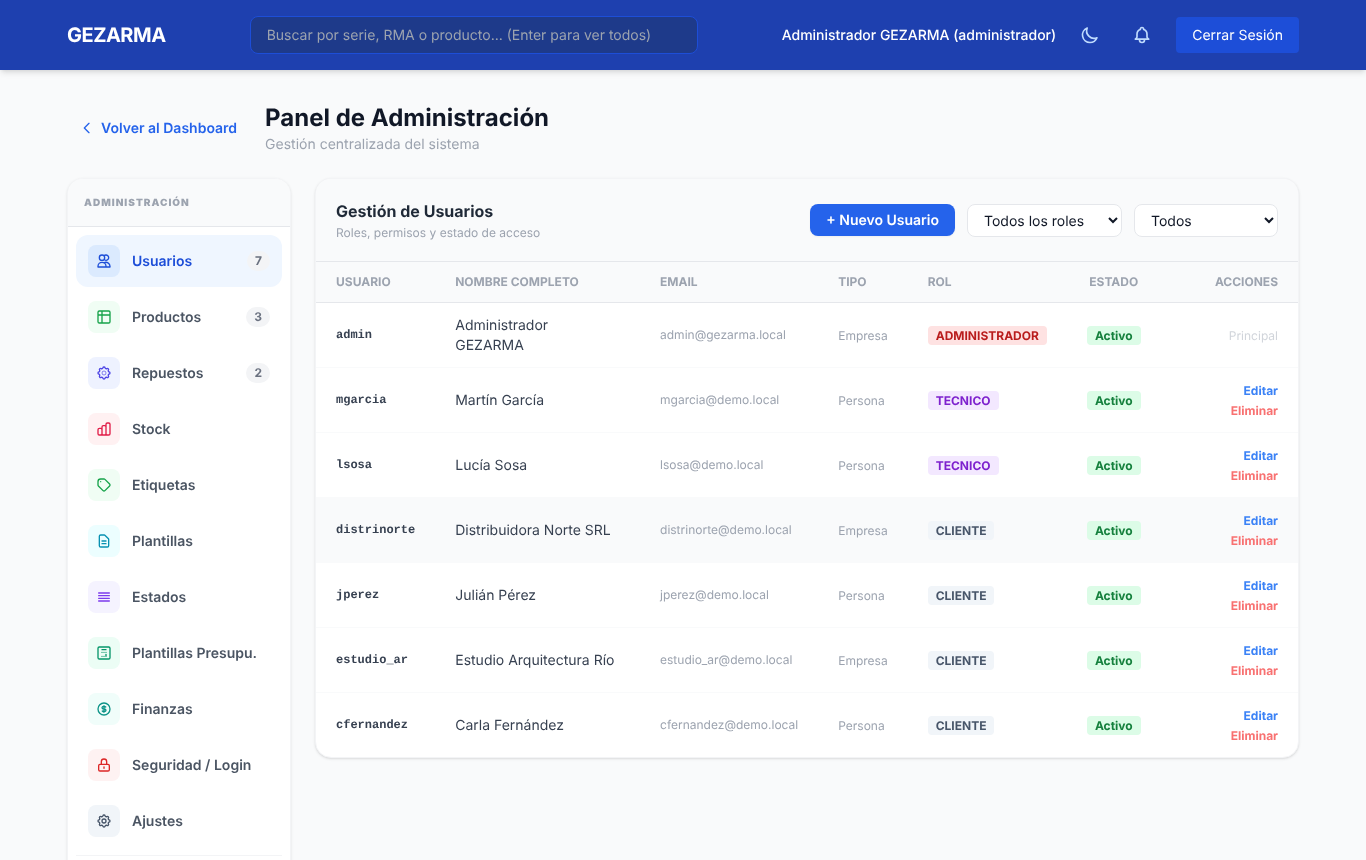
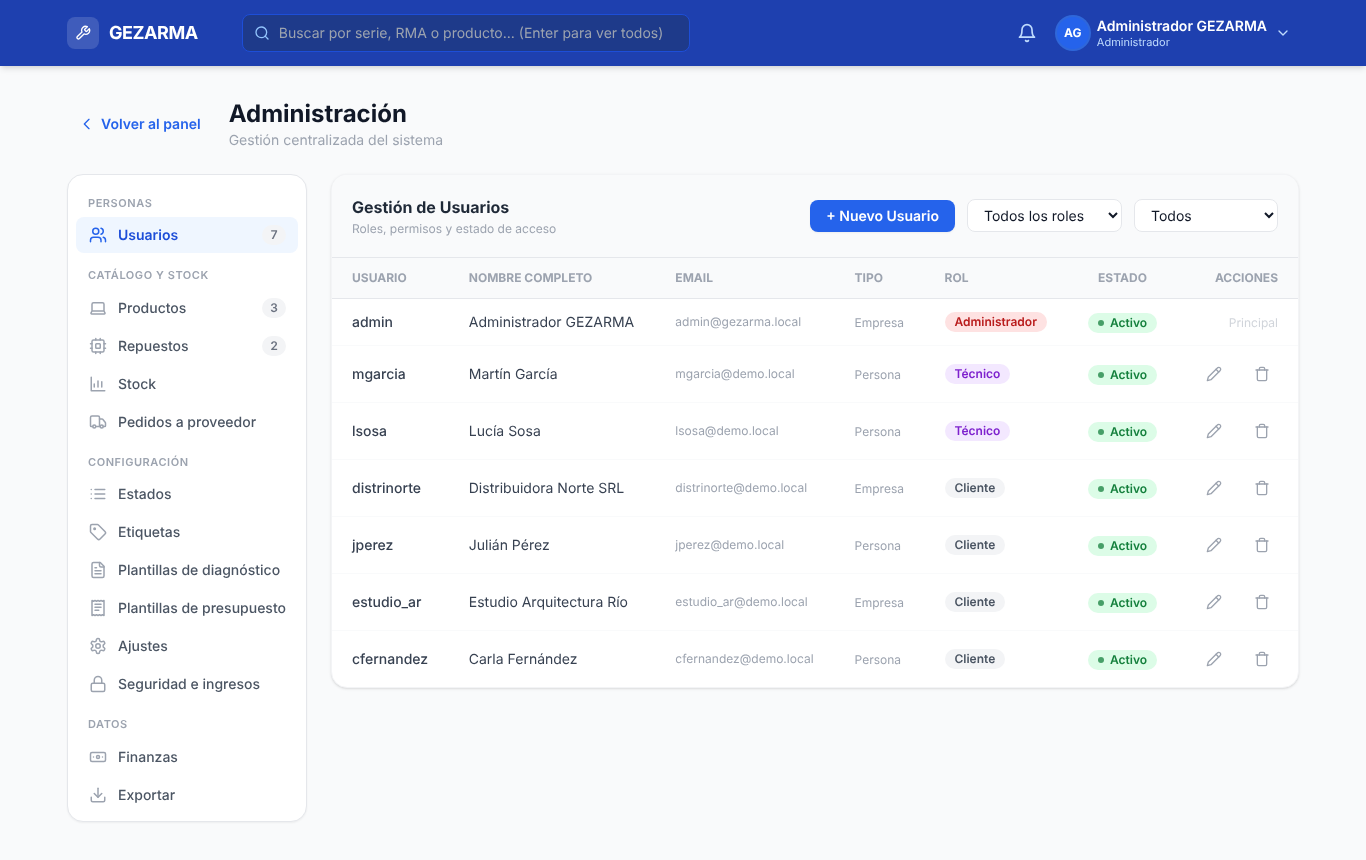
README: capturas de la interfaz nueva (y de Horas); íconos alineados con el texto, etiquetas restantes en tipo oración

diff --git a/frontend/js/ui/components.js b/frontend/js/ui/components.js
@@ -213,11 +213,11 @@ const components = (() => {
         const isDiag    = c.comentario.startsWith('DIAGNÓSTICO TÉCNICO:');
         const isInternal = c.is_internal === true;
 
-        let wrapCls, headerCls, badge = '';
+        let wrapCls, headerCls, etiq = '';
         if (isInternal) {
             wrapCls   = 'bg-violet-50 border-violet-200 dark:bg-violet-950/40 dark:border-violet-700';
             headerCls = 'text-violet-800 dark:text-violet-300';
-            badge     = `<span class="ml-2 px-1.5 py-0.5 rounded text-[10px] font-black uppercase tracking-wider bg-violet-200 text-violet-700 dark:bg-violet-800 dark:text-violet-200">Nota interna</span>`;
+            etiq      = badge('Nota interna', 'bg-violet-100 text-violet-700', { extra: 'ml-2' });
         } else if (isDiag) {
             wrapCls   = 'bg-amber-50 border-amber-200';
             headerCls = 'text-amber-800';
@@ -231,7 +231,7 @@ const components = (() => {
         <div class="p-4 rounded-lg border ${wrapCls}">
             <div class="flex justify-between items-start mb-2">
                 <span class="font-bold text-sm flex items-center flex-wrap gap-1 ${headerCls}">
-                    ${icon}${esc(c.usuario_nombre || 'Usuario #' + c.usuario_id)}${badge}
+                    ${icon}${esc(c.usuario_nombre || 'Usuario #' + c.usuario_id)}${etiq}
                 </span>
                 <span class="text-xs text-gray-400 shrink-0 ml-3">${new Date(c.fecha).toLocaleString(I18N.locale, { hour12: false })}</span>
             </div>
@@ -263,7 +263,7 @@ const components = (() => {
                 <div class="flex items-center justify-center gap-2">
                     <button type="button" class="stock-edit-btn text-xs text-blue-500 hover:text-blue-700 font-semibold" data-id="${m.id}" data-nota="${esc(m.nota)}">Nota</button>
                     ${anulable ? `<button type="button" class="stock-del-btn text-xs text-red-400 hover:text-red-600 font-semibold" data-id="${m.id}">Anular</button>` : ''}
-                    ${m.anulado ? '<span class="text-[10px] font-bold text-gray-400 uppercase">anulado</span>' : ''}
+                    ${m.anulado ? badge('Anulado', 'bg-gray-100 text-gray-500') : ''}
                 </div>
                </td>`;
         return `<tr class="hover:bg-gray-50 transition text-sm ${m.anulado ? 'line-through opacity-50' : ''}">
@@ -401,7 +401,7 @@ const components = (() => {
              data-adj-id="${a.id}">
             <span class="shrink-0 text-blue-500">${icon}</span>
             <div class="flex-1 min-w-0">
-                <p class="text-sm font-medium text-blue-900 truncate">${a.categoria === 'ingreso' ? '<span class="text-[10px] font-bold uppercase bg-emerald-100 text-emerald-700 px-1.5 py-0.5 rounded mr-1">Ingreso</span>' : ''}${esc(a.nombre_archivo)}</p>
+                <p class="text-sm font-medium text-blue-900 truncate">${a.categoria === 'ingreso' ? badge('Ingreso', 'bg-emerald-100 text-emerald-700', { extra: 'mr-1' }) : ''}${esc(a.nombre_archivo)}</p>
                 <p class="text-[10px] text-blue-400">${mimeLabel.toUpperCase()} · ${sizeStr}</p>
             </div>
             <div class="flex items-center gap-1 shrink-0">

diff --git a/frontend/js/horas.js b/frontend/js/horas.js
@@ -29,6 +29,8 @@ const Horas = (() => {
     const fechaLocal = iso => enZona(iso, { year: 'numeric', month: '2-digit', day: '2-digit' });
     const horaLocal = iso => enZona(iso, { hour: '2-digit', minute: '2-digit' }).replace(/^24/, '00');
     const hoy = () => st.datos?.hoy || new Date().toLocaleDateString('en-CA', { timeZone: st.zona });
+    // En los bloques, sin "min" para que entre en una línea: "2 h 30", "45 min"
+    const durCorta = m => { m = Math.round(m); const h = Math.floor(m / 60), r = m % 60; return h ? (r ? `${h} h ${String(r).padStart(2, '0')}` : `${h} h`) : `${r} min`; };
     const dur = m => {
         m = Math.round(m);
         const h = Math.floor(m / 60), r = m % 60;
@@ -225,8 +227,8 @@ const Horas = (() => {
         <div data-tramo="${r.id}" ${arrastrable ? 'draggable="true"' : ''} role="button" tabindex="0"
              class="rounded-lg border-l-4 ${color} ${r._pisa ? 'ring-2 ring-red-400' : ''} px-2 py-1.5 text-xs cursor-pointer hover:shadow ${arrastrable ? 'cursor-grab' : ''}">
             <div class="flex items-center justify-between gap-1 text-gray-600">
-                <span class="font-mono">${horaLocal(r.inicio)}–${esc(hasta)}</span>
-                <span class="font-semibold text-gray-800">${dur(minutos(r))}</span>
+                <span class="font-mono whitespace-nowrap">${horaLocal(r.inicio)}–${esc(hasta)}</span>
+                <span class="font-semibold text-gray-800 whitespace-nowrap" title="${dur(minutos(r))}">${durCorta(minutos(r))}</span>
             </div>
             <div class="truncate">${titulo}</div>
             ${r.producto ? `<div class="truncate text-gray-600">${esc(r.producto)}</div>` : ''}

diff --git a/frontend/js/ajustes.js b/frontend/js/ajustes.js
@@ -65,7 +65,7 @@ const Ajustes = (() => {
                 <p class="text-sm font-semibold text-gray-700">Logo del taller</p>
                 <p class="text-xs text-gray-400 mt-0.5">PNG, JPG o WEBP de hasta 2 MB (mejor cuadrado). Se ve en la barra superior, la pantalla de ingreso y la pestaña del navegador.</p>
                 <div class="flex flex-wrap gap-2 mt-2">
-                    <label class="text-sm font-semibold border border-blue-200 text-blue-600 hover:bg-blue-50 px-3 py-1.5 rounded-lg transition cursor-pointer">
+                    <label class="inline-flex items-center text-sm font-semibold border border-blue-200 text-blue-600 hover:bg-blue-50 px-3 py-1.5 rounded-lg transition cursor-pointer">
                         ${icono('subir', 'w-4 h-4 mr-1.5')}${m.logo ? 'Cambiar logo' : 'Subir logo'}
                         <input type="file" id="aj-logo-input" accept="image/png,image/jpeg,image/webp" class="sr-only"></label>
                     ${m.logo ? '<button type="button" id="aj-logo-quitar" class="text-sm font-semibold text-red-600 hover:text-red-800 px-2 py-1.5">Quitar</button>' : ''}

diff --git a/frontend/index.html b/frontend/index.html
@@ -10,7 +10,9 @@
     <link href="https://fonts.googleapis.com/css2?family=Inter:wght@300;400;500;600;700&display=swap" rel="stylesheet">
     <style>
         /* Íconos SVG (js/ui/iconos.js): alineados con el texto y del color del texto */
-        :where(.ico) { display: inline-block; flex-shrink: 0; vertical-align: -0.125em; }
+        /* (más específico que el "svg { display: block }" de Tailwind, pero sin pisar a .hidden) */
+        .ico:not(.hidden) { display: inline-block; }
+        .ico { flex-shrink: 0; vertical-align: -0.125em; }
         body { font-family: 'Inter', sans-serif; }
         /* Respaldo por si no carga Tailwind; :where() no le gana a md:flex & co. */
         :where(.hidden) { display: none; }

diff --git a/frontend/partials/horas.html b/frontend/partials/horas.html
@@ -7,7 +7,7 @@
                 </svg>
                 Volver
             </button>
-            <h2 class="text-2xl font-bold text-gray-800"><i data-icono="reloj" class="w-6 h-6 mr-2 text-blue-600"></i>Horas</h2>
+            <h2 class="text-2xl font-bold text-gray-800 flex items-center gap-2 whitespace-nowrap"><i data-icono="reloj" class="w-6 h-6 text-blue-600"></i>Horas</h2>
         </div>
         <div class="flex flex-wrap items-center gap-2">
             <select id="horas-tecnico" class="hidden border rounded-lg px-3 py-2 text-sm bg-white" aria-label="Técnico"></select>

diff --git a/README.md b/README.md
@@ -57,10 +57,12 @@ Backend en **FastAPI** + SQLAlchemy (SQLite por defecto) y frontend en HTML/JS s
 | Administración | Ajustes |
 |---|---|
 | ![Panel de administración](docs/capturas/05-admin.png) | ![Ajustes del sistema](docs/capturas/10-ajustes.png) |
+| Menú agrupado por tema; editar y eliminar desde los íconos de cada fila. | Nombre y logo del taller, mails, documentos, impresoras, SLA y más. |
 
-| Login | |
+| Horas | Login |
 |---|---|
-| ![Login](docs/capturas/01-login.png) | |
+| ![Horas de un técnico en la semana](docs/capturas/11-horas.png) | ![Login](docs/capturas/01-login.png) |
+| Las horas de cada técnico día por día: arrastrar un tramo lo mueve de día, con clic se corrige. | Con el nombre y el logo del taller. |
 
 *(Datos de demostración ficticios.)*
 
@@ -159,7 +161,7 @@ Al arrancar, la app avisa en el log si generó la `SECRET_KEY`, si ignoró la cl
 
 En *Administración → Ajustes* se configura lo que no hace falta tocar en el servidor:
 
-- **General**: nombre y logo del taller (se ven en la barra superior, la pantalla de ingreso, la pestaña del navegador, los documentos y los mails), datos de contacto, URL pública, idioma predeterminado, si los clientes pueden crearse una cuenta solos y si el seguimiento público está habilitado.
+- **General**: nombre del taller (barra superior, pantalla de ingreso, pestaña del navegador, documentos y mails) y logo (barra superior, pantalla de ingreso y pestaña del navegador), datos de contacto, URL pública, idioma predeterminado, si los clientes pueden crearse una cuenta solos y si el seguimiento público está habilitado.
 - **Documentos**: generarlos como PDF en el servidor o abrirlos para imprimir desde el navegador. Los PDF adjuntos a los mails siempre los genera el servidor.
 - **Email**: activar las notificaciones, elegir si el SMTP se toma del `.env` o del panel (en el panel la contraseña se guarda cifrada con la `SECRET_KEY`; si la cambiás, hay que volver a cargarla), qué eventos se notifican, y un botón para mandar un mail de prueba que muestra el error real si algo falla.
 - **Impresoras térmicas**: tamaño de etiqueta y resolución de la etiquetadora; ancho de rollo y resolución de la ticketera (ver *Impresoras térmicas*, más abajo).
